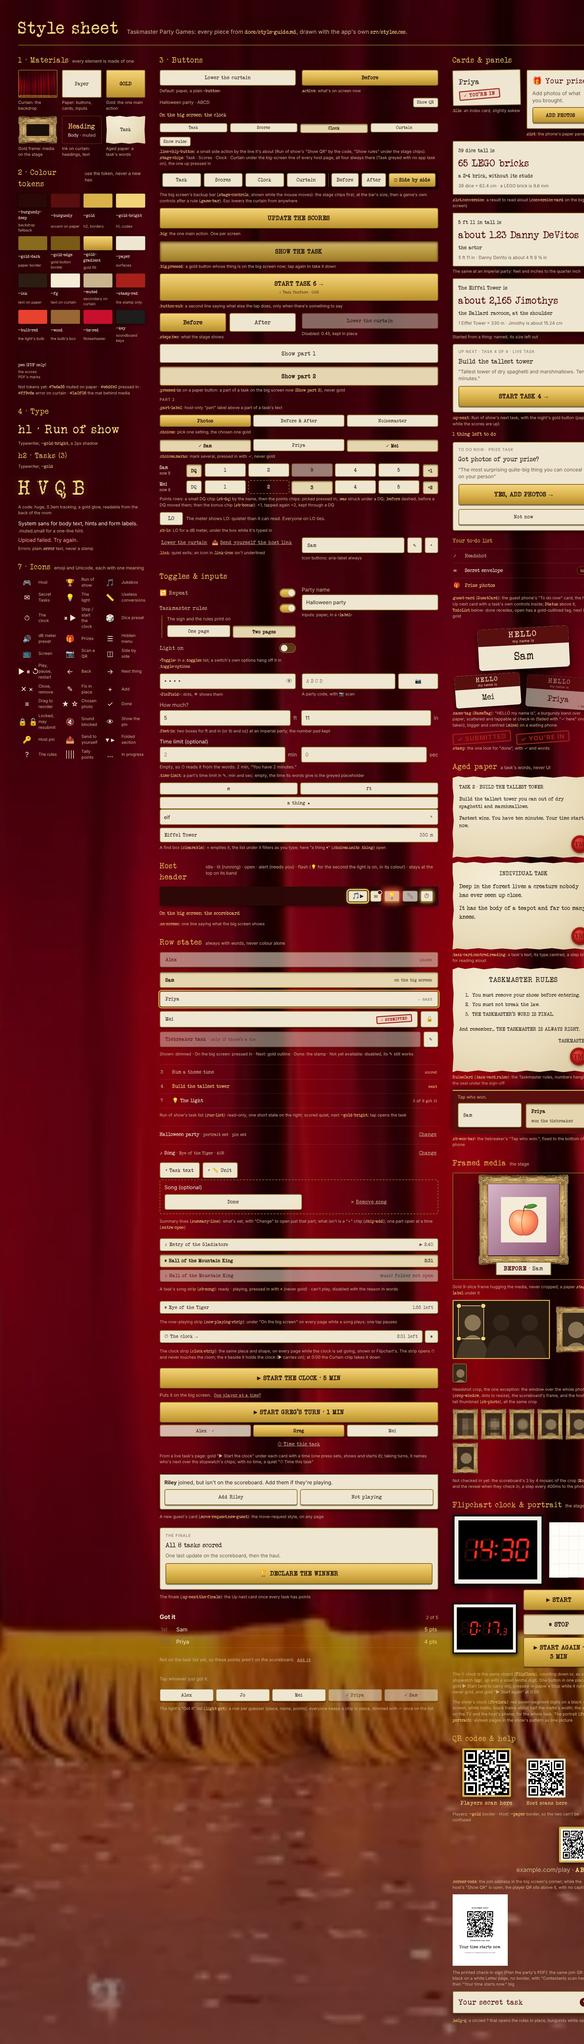
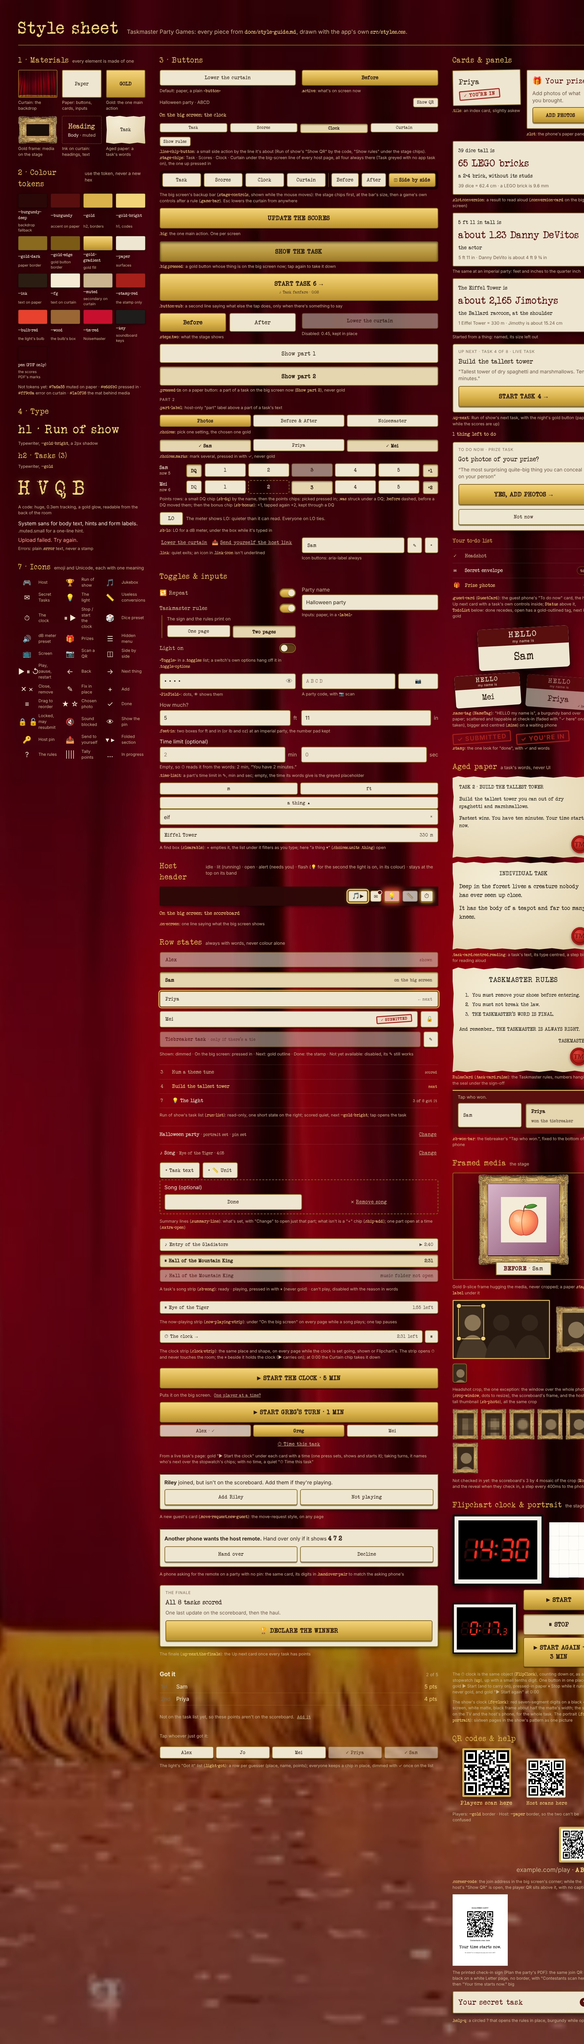
Ask the host phone to hand over the remote, on a party with no pin
A phone reaching a party whose remote is on another phone no longer
dead-ends at "ask for it to be reset on the main screen". With no host
pin, it can ask: both phones show the same three digits, and the phone
with the remote gets a card at the top of every page, "Another phone
wants the host remote. Hand over only if it shows 472", Hand over or
Decline. Handing over moves the remote (and, before any big screen, the
host slot too); the old phone gets the "Take it back" line. A pinned
party keeps its pin step and can't be asked.

- sessions/{code}/handovers/{uid}: { pair, from, status }, with rules so
  only the asking phone asks, only the remote answers, and the remote
  can only hand itself to a phone that asked.
- Screens, style guide, style sheet.

Claude-Session: https://claude.ai/code/session_011kfMZAZKFVP4yz6Ccpy6kq

Changed region(s): [[0.2489, 0.7471, 0.7778, 0.8717]]

diff --git a/src/HostPage.tsx b/src/HostPage.tsx
@@ -17,7 +17,7 @@ import { AdHocPage, TaskPage, TiebreakerPage } from "./scoreboard/TaskPage";
 import { activeTaskId } from "./scoreboard/tasks";
 import { REMOTE_KEY, RecentList, loadRecent, saveRecent, withRecent, withoutRecent } from "./recent";
 import { PinStep } from "./HostPin";
-import { JoinError, PinNeededError, allowMove, claimController, claimWithPin, createParty, declineMove, extractCode, releaseController, setShowDownload, store, useSession, useUid } from "./session";
+import { JoinError, PinNeededError, RemoteTakenError, allowMove, askHandover, cancelHandover, claimController, claimWithPin, createParty, declineHandover, declineMove, extractCode, finishHandover, handOver, releaseController, setShowDownload, store, useSession, useUid } from "./session";
 import { addPlayerToScoreboard, setNotPlaying } from "./scoreboard/data";
 import { DownloadZip } from "./DownloadZip";
 import { Toggle } from "./Toggle";
@@ -178,7 +178,7 @@ function Dealer({ code, session }: { code: string; session: Session }) {
 }
 
 /**
- * Guests asking to move to a new phone, at the top of every view. It blocks nothing and makes no
+ * Guests asking to move to a new phone, and phones asking for the remote, at the top of every view. It blocks nothing and makes no
  * sound: the guest will usually be standing next to the host asking anyway.
  */
 function MoveRequests({ code, session }: { code: string; session: Session }) {
@@ -189,6 +189,8 @@ function MoveRequests({ code, session }: { code: string; session: Session }) {
     .filter(([uid, p]) => !listed.has(uid) && !p.notPlaying)
     .sort(([, a], [, b]) => a.joinedAt - b.joinedAt);
   const asks = Object.entries(session.moves ?? {}).filter(([, m]) => m.status === "asked" && session.players?.[m.from]);
+  // Phones asking for the remote (a party with no pin), oldest first.
+  const handovers = Object.entries(session.handovers ?? {}).filter(([, h]) => h.status === "asked");
   return (
     <>
       {newcomers.map(([uid, p]) => (
@@ -197,6 +199,15 @@ function MoveRequests({ code, session }: { code: string; session: Session }) {
           <div className="row">
             <button onClick={() => void addPlayerToScoreboard(code, board, uid, p.name)}>Add {p.name}</button>
             <button onClick={() => void setNotPlaying(code, uid)}>Not playing</button>
+          </div>
+        </section>
+      ))}
+      {handovers.map(([to, h]) => (
+        <section key={to} className="move-request">
+          <p><strong>Another phone wants the host remote.</strong> Hand over only if it shows <span className="handover-pair">{h.pair}</span></p>
+          <div className="row">
+            <button onClick={() => void handOver(code, session, to)}>Hand over</button>
+            <button onClick={() => void declineHandover(code, to)}>Decline</button>
           </div>
         </section>
       ))}
@@ -302,6 +313,8 @@ function Connect({ takenOver, onConnected }: { takenOver?: TakenOver; onConnecte
   const [naming, setNaming] = useState<string>();
   /** A pinned party this phone hasn't entered the pin for yet. */
   const [pinFor, setPinFor] = useState<PinNeededError>();
+  /** A party with no pin whose remote is on another phone: this one can ask it to hand over. */
+  const [askFor, setAskFor] = useState<RemoteTakenError>();
   const autoTried = useRef(false);
   // Sessions this phone has been the host remote for.
   const [recent, setRecent] = useState(() => loadRecent(REMOTE_KEY));
@@ -312,6 +325,7 @@ function Connect({ takenOver, onConnected }: { takenOver?: TakenOver; onConnecte
     try { onConnected(await claimController(c)); }
     catch (err) {
       if (err instanceof PinNeededError) { setPinFor(err); return; }
+      if (err instanceof RemoteTakenError) { setAskFor(err); return; }
       // A session that no longer exists drops off the recent list.
       if (err instanceof JoinError && err.message.startsWith("No session found")) {
         setRecent(saveRecent(REMOTE_KEY, withoutRecent(recent, c.trim().toUpperCase())));
@@ -359,6 +373,8 @@ function Connect({ takenOver, onConnected }: { takenOver?: TakenOver; onConnecte
       hint="You'll only type it once on this phone." action="Connect" busy={busy} error={error}
       onSubmit={(pin) => void enterPin(pin)} onExit={() => { setPinFor(undefined); setError(undefined); }} />;
   }
+
+  if (askFor) return <AskHandover taken={askFor} onConnected={onConnected} onExit={() => { setAskFor(undefined); setError(undefined); }} />;
 
   // Days ahead: name the party, and it's made right here, with no big screen yet.
   if (naming !== undefined) {
@@ -408,6 +424,72 @@ function Connect({ takenOver, onConnected }: { takenOver?: TakenOver; onConnecte
         const c = extractCode(t);
         if (c) { setCode(c); setError(undefined); }
       }} />}
+    </main>
+  );
+}
+
+/**
+ * A party with no pin whose remote is on another phone. This phone asks it to hand over, then shows 3 digits;
+ * the other phone's card shows the same, so the host can tell which phone is asking. With a pin, the pin
+ * step does this job instead.
+ */
+function AskHandover({ taken, onConnected, onExit }: { taken: RemoteTakenError; onConnected: (code: string) => void; onExit: () => void }) {
+  const { code, partyName } = taken;
+  const uid = useUid();
+  const session = useSession(code);
+  const [busy, setBusy] = useState(false);
+  const [error, setError] = useState<string>();
+  const ask = uid ? session?.handovers?.[uid] : undefined;
+  const handed = ask?.status === "handed" && session?.controllerUid === uid;
+  useEffect(() => {
+    if (!handed || !ask) return;
+    void finishHandover(code, ask.from).then(() => onConnected(code));
+  }, [handed]);
+
+  async function askNow() {
+    setBusy(true);
+    setError(undefined);
+    try { await askHandover(code); }
+    catch (err) { setError(err instanceof JoinError ? err.message : "Couldn't ask. Try again."); }
+    finally { setBusy(false); }
+  }
+  const back = () => { if (ask) void cancelHandover(code); onExit(); };
+  const party = <>{partyName ? <><strong className="party-name">{partyName}</strong> · </> : "Party "}<strong>{code}</strong></>;
+
+  return (
+    <main className="join">
+      <h1>Host remote</h1>
+      {!ask ? (
+        <>
+          <p className="joining">{party} already has a host remote.</p>
+          <button disabled={busy} onClick={() => void askNow()}>{busy ? "Asking…" : "Ask the host phone to hand over"}</button>
+          {error && <p className="error">{error}</p>}
+          <button className="link" onClick={onExit}>Wrong party? Enter a different code</button>
+        </>
+      ) : (
+        <section className="slot waiting">
+          {ask.status === "declined" ? (
+            <>
+              <h2>The host phone said no.</h2>
+              <button disabled={busy} onClick={() => void askNow()}>{busy ? "Asking…" : "Ask again"}</button>
+              <button className="link" onClick={back}>Back</button>
+            </>
+          ) : ask.status === "elsewhere" ? (
+            <>
+              <h2>The host handed over to another phone.</h2>
+              <button className="link" onClick={back}>Back</button>
+            </>
+          ) : (
+            <>
+              <h2>Asked the host phone.</h2>
+              <p className="slot-hint">Check that it shows</p>
+              <p className="handover-pair big">{ask.pair}</p>
+              <p className="slot-hint">{handed ? "Connecting…" : "Waiting for its OK…"}</p>
+              <button className="link" onClick={back}>Cancel</button>
+            </>
+          )}
+        </section>
+      )}
     </main>
   );
 }

diff --git a/docs/guest-shots/shots.tsx b/docs/guest-shots/shots.tsx
@@ -140,7 +140,7 @@ function build() {
       break;
     // Noisemaster before a go: the host's setup, Sam picked and the phrase and decoys typed in (no sound files).
     case "host-noisemaster-setup": picked(); task("noisemaster"); set("begun", true); break;
-    case "tv-noisemaster": case "host-noisemaster": case "host-run":
+    case "tv-noisemaster": case "host-noisemaster": case "host-run": case "host-run-handover":
       picked(); task("noisemaster"); g.noisemaster = { round: midGo() }; set("display", { step: "soundboard" }); set("begun", true);
       break;
     // Secret Tasks: Sam's secret is up on the big screen; on the host's phone, everyone has theirs and Tom hasn't looked yet.
@@ -419,6 +419,9 @@ function build() {
 
 const { session, secret } = build();
 if (shot.startsWith("host-")) { (session as Record<string, unknown>).controllerUid = "host"; (session as Record<string, unknown>).hostUid = "owner"; }
+// A party with no pin whose remote is on the host's iPad ("host"): the iPhone ("iphone") asks for it, and the iPad's card shows the same 472.
+if (shot === "start-host-ask" || shot === "start-host-asked") { (session as Record<string, unknown>).controllerUid = "host"; (session as Record<string, unknown>).hostUid = "owner"; }
+if (shot === "start-host-asked" || shot === "host-run-handover") (session as Record<string, unknown>).handovers = { iphone: { pair: "472", from: "host", status: "asked" } };
 // On the noisemaster host page everyone has their secret task, and has looked, so the ✉ has no dot.
 if (shot.startsWith("host-parts") || shot.startsWith("host-onepart") || shot.startsWith("host-plan") || shot === "host-crop" || shot === "host-app-game" || shot === "host-adhoc" || shot === "host-reset" || shot.startsWith("host-flipchart") || shot === "host-noisemaster" || shot === "host-noisemaster-setup" || shot === "host-prize" || shot === "host-prize-before" || shot === "host-points" || shot === "host-run" || shot === "host-haul" || shot === "host-zip" || ["host-photos", "host-headshot", "host-beforeafter", "host-box"].includes(shot) || shot.startsWith("host-light")) { Object.assign(secret.assigned as object, SECRETS); secret.seen = Object.fromEntries(Object.keys(people).map((id) => [id, true])); }
 // Loading the pile before the night: nobody has an envelope yet, and the pile holds the six that get picked plus four more.
@@ -442,7 +445,7 @@ if (joined && shot.startsWith("checkin")) {
   (session.scoreboard as { contestants: Record<string, { uid?: string }> }).contestants[who]!.uid = who;
 }
 if (shot === "checkin-list" || shot === "checkin-confirm") localStorage.setItem("ba.playCode", shot === "checkin-list" ? "" : "");
-if (shot.startsWith("host-")) { localStorage.setItem("ba.remoteCode", CODE); localStorage.setItem("ba.hostTab", JSON.stringify(shot === "host-run" || shot === "host-run-transition" || shot === "host-run-transition-missing" || shot === "host-haul" || shot === "host-arrivals" || shot === "host-reset" ? { view: "show" } : shot === "host-app-game" ? { view: "task", task: "t2" } : shot === "host-sting" || shot === "host-sting-held" || shot === "host-replay" ? { view: "task", task: "t6" } : shot === "host-edit-transition" || shot === "host-edit-transition-try" ? { view: "edit", task: "t6" } : shot === "host-adhoc" ? { view: "task", task: "adhoc" } : shot === "host-secret" ? { view: "tasks" } : shot === "host-secret-title" ? { view: "task", task: "t4" } : shot === "host-secret-edit" ? { view: "edit", task: "t4" } : shot === "host-flipchart-edit" ? { view: "edit", task: "t8" } : shot.startsWith("host-flipchart") ? { view: "task", task: "t8" } : shot === "host-parts-edit" ? { view: "edit", task: "t6" } : shot.startsWith("host-parts") ? { view: "task", task: "t6" } : shot.startsWith("host-onepart") ? { view: "task", task: "t7" } : shot === "host-edit-arrival" ? { view: "edit", task: "t0" } : shot === "host-plan-edit" ? { view: "edit", task: "t8" } : shot.startsWith("host-plan") ? { view: "plan" } : shot === "host-crop" ? { view: "crop", contestant: "greg" } : shot === "host-prize" || shot === "host-points" || shot === "host-prize-before" ? { view: "task", task: "t3" } : shot === "host-photos" ? { view: "task", task: "t2" } : shot === "host-headshot" ? { view: "task", task: "t1" } : shot === "host-beforeafter" ? { view: "task", task: "t6" } : shot === "host-box" ? { view: "task", task: "t7" } : shot === "host-light-flash" ? { view: "show" } : shot.startsWith("host-light") ? { view: "light" } : { view: "task", task: "t5" })); }
+if (shot.startsWith("host-")) { localStorage.setItem("ba.remoteCode", CODE); localStorage.setItem("ba.hostTab", JSON.stringify(shot === "host-run" || shot === "host-run-handover" || shot === "host-run-transition" || shot === "host-run-transition-missing" || shot === "host-haul" || shot === "host-arrivals" || shot === "host-reset" ? { view: "show" } : shot === "host-app-game" ? { view: "task", task: "t2" } : shot === "host-sting" || shot === "host-sting-held" || shot === "host-replay" ? { view: "task", task: "t6" } : shot === "host-edit-transition" || shot === "host-edit-transition-try" ? { view: "edit", task: "t6" } : shot === "host-adhoc" ? { view: "task", task: "adhoc" } : shot === "host-secret" ? { view: "tasks" } : shot === "host-secret-title" ? { view: "task", task: "t4" } : shot === "host-secret-edit" ? { view: "edit", task: "t4" } : shot === "host-flipchart-edit" ? { view: "edit", task: "t8" } : shot.startsWith("host-flipchart") ? { view: "task", task: "t8" } : shot === "host-parts-edit" ? { view: "edit", task: "t6" } : shot.startsWith("host-parts") ? { view: "task", task: "t6" } : shot.startsWith("host-onepart") ? { view: "task", task: "t7" } : shot === "host-edit-arrival" ? { view: "edit", task: "t0" } : shot === "host-plan-edit" ? { view: "edit", task: "t8" } : shot.startsWith("host-plan") ? { view: "plan" } : shot === "host-crop" ? { view: "crop", contestant: "greg" } : shot === "host-prize" || shot === "host-points" || shot === "host-prize-before" ? { view: "task", task: "t3" } : shot === "host-photos" ? { view: "task", task: "t2" } : shot === "host-headshot" ? { view: "task", task: "t1" } : shot === "host-beforeafter" ? { view: "task", task: "t6" } : shot === "host-box" ? { view: "task", task: "t7" } : shot === "host-light-flash" ? { view: "show" } : shot.startsWith("host-light") ? { view: "light" } : { view: "task", task: "t5" })); }
 // The ⏱ clock's shots open on ⏱ (the task page for one), with the task they came from behind it.
 if (/^host-(cd|sw)-/.test(shot)) {
   localStorage.setItem("ba.hostTab", JSON.stringify(shot === "host-cd-task" || shot === "host-cd-stuck" ? { view: "task", task: "t6" } : shot === "host-cd-turns" ? { view: "task", task: "t8" } : shot === "host-cd-untimed" ? { view: "task", task: "t7" } : shot === "host-cd-limit-edit" || shot === "host-cd-limit-summary" ? { view: "edit", task: "t6" } : { view: "clock" }));

diff --git a/src/session.ts b/src/session.ts
@@ -170,6 +170,11 @@ export async function joinSession(rawCode: string, rawName: string): Promise<str
 }
 
 /** The name a guest tapped is already checked in on another phone: maybe theirs (see askToMove). */
+/** A party with no host pin whose remote is on another phone: this one can ask it to hand over. */
+export class RemoteTakenError extends JoinError {
+  constructor(readonly code: string, readonly partyName: string | null) { super("This party already has a host remote."); }
+}
+
 export class TakenError extends JoinError {
   constructor(readonly taken: string) { super(`${taken} is already checked in on another phone.`); }
 }
@@ -321,9 +326,7 @@ export async function claimController(rawCode: string): Promise<string> {
     if (current !== user.uid) await set(ref(db(), `sessions/${code}/controllerUid`), user.uid);
     return code;
   }
-  if (current && current !== user.uid) {
-    throw new JoinError("This session already has a host remote. Ask for it to be reset on the main screen.");
-  }
+  if (current && current !== user.uid) throw new RemoteTakenError(code, session.name ?? null);
   if (current === user.uid) return code; // this phone already holds the slot
   try {
     await set(ref(db(), `sessions/${code}/controllerUid`), user.uid);
@@ -332,6 +335,48 @@ export async function claimController(rawCode: string): Promise<string> {
   }
   return code;
 }
+
+/**
+ * New phone, on a party with no pin: asks the host remote to hand over. Returns the 3 digits both phones show,
+ * a new set each time and never the same as another phone's that's asking.
+ */
+export async function askHandover(code: string): Promise<string> {
+  const user = await ensureSignedIn();
+  const snap = await get(ref(db(), `sessions/${code}`));
+  if (!snap.exists()) throw new JoinError(`No session found for code ${code}.`);
+  const session = snap.val() as Session;
+  if (!session.controllerUid) throw new JoinError("Nobody has the host remote now. Connect again.");
+  const taken = new Set(Object.values(session.handovers ?? {}).map((h) => h.pair));
+  let pair: string;
+  do pair = String(100 + Math.floor(Math.random() * 900)); while (taken.has(pair));
+  // A declined or stale ask goes first: only a new one can be written.
+  await remove(ref(db(), `sessions/${code}/handovers/${user.uid}`));
+  await set(ref(db(), `sessions/${code}/handovers/${user.uid}`), { pair, from: session.controllerUid, status: "asked" });
+  return pair;
+}
+
+/** New phone: withdraws its ask (or clears an answered one). */
+export const cancelHandover = async (code: string) =>
+  remove(ref(db(), `sessions/${code}/handovers/${(await ensureSignedIn()).uid}`));
+
+/**
+ * New phone, once handed the remote: tidies its ask away, and on a party with no big screen yet (the remote
+ * that handed over was its host too) takes the host slot as well, so this phone can do all the old one could.
+ */
+export async function finishHandover(code: string, from: string) {
+  const user = await ensureSignedIn();
+  if ((await get(ref(db(), `sessions/${code}/hostUid`))).val() === from) await set(ref(db(), `sessions/${code}/hostUid`), user.uid);
+  await remove(ref(db(), `sessions/${code}/handovers/${user.uid}`));
+}
+
+/** Host remote: hands itself over to the phone that asked, and tells any other phone that asked. */
+export function handOver(code: string, session: Session, to: string) {
+  const u: Record<string, unknown> = { [`sessions/${code}/controllerUid`]: to, [`sessions/${code}/handovers/${to}/status`]: "handed" };
+  for (const [uid, h] of Object.entries(session.handovers ?? {})) if (uid !== to && h.status === "asked") u[`sessions/${code}/handovers/${uid}/status`] = "elsewhere";
+  return update(ref(db()), u);
+}
+
+export const declineHandover = (code: string, to: string) => set(ref(db(), `sessions/${code}/handovers/${to}/status`), "declined");
 
 /** Main screen: disconnects the current host remote so another phone can claim it. */
 export const resetController = (code: string) => remove(ref(db(), `sessions/${code}/controllerUid`));

diff --git a/src/types.ts b/src/types.ts
@@ -245,6 +245,17 @@ export interface StageLightAsk {
  * host can allow it, so nobody can take someone else's spot. Allowed requests stay, so the old phone
  * can say where its player went.
  */
+/**
+ * A phone asking the host remote to hand the remote over, on a party with no host pin. Both phones show `pair`,
+ * so the host can tell which phone is asking. `from` is the remote it asked (the phone that had it then).
+ */
+export interface HandoverRequest {
+  pair: string;
+  from: string;
+  /** asked; declined by the host; handed to this phone; or "elsewhere", handed to another phone that asked. */
+  status: "asked" | "declined" | "handed" | "elsewhere";
+}
+
 export interface MoveRequest {
   /** The player being moved. */
   from: string;
@@ -526,6 +537,8 @@ export interface Session {
   lightUid?: string;
   /** Guests asking to move to a new phone, by the new phone's uid (see MoveRequest). */
   moves?: Record<string, MoveRequest>;
+  /** Phones asking for the host remote, by the asking phone's uid (see HandoverRequest). */
+  handovers?: Record<string, HandoverRequest>;
   light?: LightState;
   /** Where Before & After kept its data before there were games. Moved into `games` when a main screen opens the session. */
   media?: Record<string, BeforeAfterMedia>;

diff --git a/docs/style-sheet/sheet.tsx b/docs/style-sheet/sheet.tsx
@@ -223,6 +223,10 @@ function Sheet() {
             </div>
             <Cap>A new guest's card (<code>.move-request.new-guest</code>): the move-request style, on any page</Cap>
             <div className="mini-phone" style={{ width: "100%", marginTop: 12 }}>
+              <section className="move-request"><p><strong>Another phone wants the host remote.</strong> Hand over only if it shows <span className="handover-pair">472</span></p><div className="row"><button>Hand over</button><button>Decline</button></div></section>
+            </div>
+            <Cap>A phone asking for the remote on a party with no pin: the same card, its digits in <code>.handover-pair</code> to match the asking phone's</Cap>
+            <div className="mini-phone" style={{ width: "100%", marginTop: 12 }}>
               <section className="up-next the-finale"><p className="up-next-label">The finale</p><h3>All 8 tasks scored</h3><p className="up-next-note">One last update on the scoreboard, then the haul.</p><button className="big">🏆 Declare the winner</button></section>
             </div>
             <Cap>The finale (<code>.up-next.the-finale</code>): the Up next card once every task has points</Cap>

diff --git a/src/styles.css b/src/styles.css
@@ -616,6 +616,9 @@ body.idle-cursor .stage { cursor: none; }
 @media (prefers-reduced-motion: reduce) { .review-cell { animation: none; } }
 .img-failed { display: grid; place-items: center; width: 100%; height: 100%; min-width: 12rem; min-height: 8rem; color: var(--muted); font-family: var(--typewriter); }
 .slot .slot-hint { color: #6b5a44; margin: 0; }
+/* The 3 digits a phone asking for the host remote shows, and the host phone's card repeats: typewriter, spaced like a party code. */
+.handover-pair { font-family: var(--typewriter); font-size: 1.3em; letter-spacing: 0.3em; font-weight: bold; white-space: nowrap; }
+.handover-pair.big { font-size: 3rem; color: var(--burgundy); margin: 0.2rem 0 0; padding-left: 0.3em; text-align: center; }
 .pair-preview { display: grid; grid-template-columns: 1fr 1fr; gap: 0.6rem; align-items: start; }
 .pair-preview figure { margin: 0; display: grid; gap: 0.3rem; justify-items: center; text-align: center; }
 /* each preview takes the shape of its own image (landscape stays landscape, portrait stays portrait) */

diff --git a/docs/style-guide.md b/docs/style-guide.md
@@ -210,6 +210,7 @@ See: [guest-home-waiting.jpg](screens/guest-home-waiting.jpg), [guest-home-prize
 - **Taking the remote on another phone** (`HostPin.tsx`, `HostPage.tsx`): the host's own other phone, days ahead with no big screen to scan, gets on with the code and the host pin. Once a pin is saved, Plan the party has a quiet "📤 Send yourself the host link" under it, which hands `site/host?code=ABCD` to the share sheet (copied, with a muted "Link copied" line, where there's none), so the host can tap it later and land on the pin step. The phone it was taken from goes back to its start page with "Another phone took over Halloween party · ABCD." and gold **Take it back** above "Start a new party"; it says "another phone" because the app can't tell whose. Removing the remote from the big screen or with Disconnect says nothing. See: [host-pin-send-link.jpg](screens/host-pin-send-link.jpg), [host-taken-over.jpg](screens/host-taken-over.jpg).
 - **Header** (`HostPage.tsx`): five icon buttons, right-aligned, in this order: 🎵 the jukebox (shows ▶ and glows while a song plays), ✉ Secret Tasks, 💡 the light (glows while it's on), 📏 Useless conversions (glows while a conversion is on the big screen), ⏱ The clock (glows while it counts). The open one has a `--gold-bright` outline. It stays at the top of the screen while the page scrolls, on a band of `--burgundy-deep` (95%) that runs to the phone's edges, so it is always one tap away. Idle icons are faded and greyed (`.head-icon`); `.lit` is the gold glow, meaning "running"; `.alert` is a small burgundy dot, meaning "needs the host". `.flash` is 💡 only: for the second the light is on, the icon fills with the bulb's colour (`--bulb`, red for one secret) and glows in it, since the big screen shows nothing when the light runs there; a guest peeking sees no more than the lamp shows the room ([light-host-flash.jpg](screens/light-host-flash.jpg)). Never use the glow for "needs you". There is no 🏆 and no "Host" label: Run of show is home, and its title carries the party name and code in small muted type. 🎵 ✉ 💡 📏 ⏱ open in place of the page with one "← Back" to where the host was, then the "On the big screen" line. A new all-evening feature gets a header icon, not another section on a page.
 - **Arrivals** (`Arrivals` in `RunOfShow.tsx`): before the first task, "Here so far · 3 of 5" and a read-only list (`.arrivals-list`: a 2rem-wide headshot in the scoreboard window's shape, cropped as the scoreboard crops it, the name in typewriter, and a muted "checked in", "not yet" or "checked in · no headshot yet"; guests who haven't come are dimmed). No QR button of its own: "Show QR" by the code covers it, and the host prints the QR for the door (the check-in sign in Print, § Plan the party).
+- **Asking for the remote, no pin** (`AskHandover` and `MoveRequests` in `HostPage.tsx`): on a party with no host pin, a phone whose code reaches a remote that's already taken gets "Halloween party · ABCD already has a host remote." and a paper **Ask the host phone to hand over** (a pinned party asks for the pin instead, and never shows this). Asked, it shows a `.slot` card: "Asked the host phone.", "Check that it shows", three digits in `.handover-pair.big` (typewriter, 3rem, burgundy, spaced like a party code), "Waiting for its OK…" and a quiet Cancel; declined, "The host phone said no." with "Ask again". The phone with the remote gets a move-request card at the top of every page: **Another phone wants the host remote.** "Hand over only if it shows 472", the digits in `.handover-pair`, and two paper buttons, Hand over and Decline. Matching the digits is the check, so there's no `confirm()`; the phone that handed over gets the "Another phone took over… Take it back" line. Every ask has new digits; two phones asking get two cards, and handing over to one tells the other "The host handed over to another phone." See: [host-handover-ask.jpg](screens/host-handover-ask.jpg), [host-handover-waiting.jpg](screens/host-handover-waiting.jpg), [host-handover-card.jpg](screens/host-handover-card.jpg).
 - **New guest card** (`.move-request.new-guest`, in `HostPage.tsx`): the move-request card style, at the top of any page: the guest's name in bold, "joined, but isn't on the scoreboard. Add them if they're playing.", and two paper buttons, "Add Riley" and "Not playing".
 - **The finale** (`.up-next.the-finale`): the Up next card once every task has points: "THE FINALE", "All 8 tasks scored", one line on what follows, and the night's gold "🏆 Declare the winner".
 - **Stage chips** (`StageChips` in `HostRemote.tsx`, `.stage-chips`): right under the "On the big screen" line of every host page (once a big screen is connected), four equal line chips in one row: **Task · Scores · Clock · Curtain**, the things the host puts up from anywhere, one tap each. All four are always there, in the same place, so a thumb finds them in a hurry; Task is greyed out (disabled) while no app task is on, rather than gone, so nothing shifts. The one up now is pressed in (`.pressed-in`, `aria-pressed`), read from the status line so the two always agree, and tapping it does nothing: Curtain is the way down, never a second tap. With none of them up (a live task's words, a contestant's entry) none is pressed in. A task's transition (its picture, or a video holding its last frame) covers everything, so every chip ends it first, music and all, then does its own thing; while one is on, none is pressed in. Task puts the app task's own screen back (the task card with who's sent, or the game's board: the boxes, the soundboard, the envelopes); Scores puts the scoreboard up; Curtain lowers the curtain, taking down the clock or a conversion with it; Clock puts the ⏱ clock up as it is, or, when a countdown hasn't begun and was set for another task (or never), first sets it to the current task's time limit (the part on the big screen) and song, as ⏱ would. It goes up ready, not started: the clock strip under the chips starts it. While a Flipchart round runs, Curtain still just lowers the curtain: the round goes on, the line reads "the curtain, while they draw", Clock brings Flipchart's clock back (not ⏱'s), and the main screen still closes the round at 0:00. One-word labels, since "On the big screen" says what they do ("Task", not the app's name: "[BLANK] in a Box" wouldn't fit). See: [stage-chips-host-clock.jpg](screens/stage-chips-host-clock.jpg), [stage-chips-host-transition-curtain.jpg](screens/stage-chips-host-transition-curtain.jpg), [stage-chips-host-flipchart-curtain.jpg](screens/stage-chips-host-flipchart-curtain.jpg).

diff --git a/docs/screens/README.md b/docs/screens/README.md
@@ -303,6 +303,9 @@ Host pin (taken on 2026-10-13, from the real components with a made-up party):
 | `main-hidden-menu-pin.jpg` | The ☰ Menu with "🔑 Host pin on: a new phone needs it to connect. Remove the pin" |
 | `host-pin-send-link.jpg` | Plan the party's party line opened, the pin set, and "📤 Send yourself the host link" under it: the way onto the remote from another of the host's phones with no big screen to scan (2026-10-24) |
 | `host-taken-over.jpg` | The host remote's start page on the phone the remote was taken from: "Another phone took over Halloween party · ABCD." and gold "Take it back" above "Start a new party" (2026-10-24) |
+| `host-handover-ask.jpg` | A party with no pin, its remote on the host's iPad: the iPhone reaching it gets "Halloween party · ABCD already has a host remote." and "Ask the host phone to hand over" (2026-10-25) |
+| `host-handover-waiting.jpg` | The same iPhone after asking: "Asked the host phone. Check that it shows 472", "Waiting for its OK…", Cancel (2026-10-25) |
+| `host-handover-card.jpg` | The iPad's card on Run of show: "Another phone wants the host remote. Hand over only if it shows 472", Hand over and Decline (2026-10-25) |
 
 Video limits (taken on 2026-10-14, from the real `PlayerView` with a made-up party and a 2½-minute test video):
 
